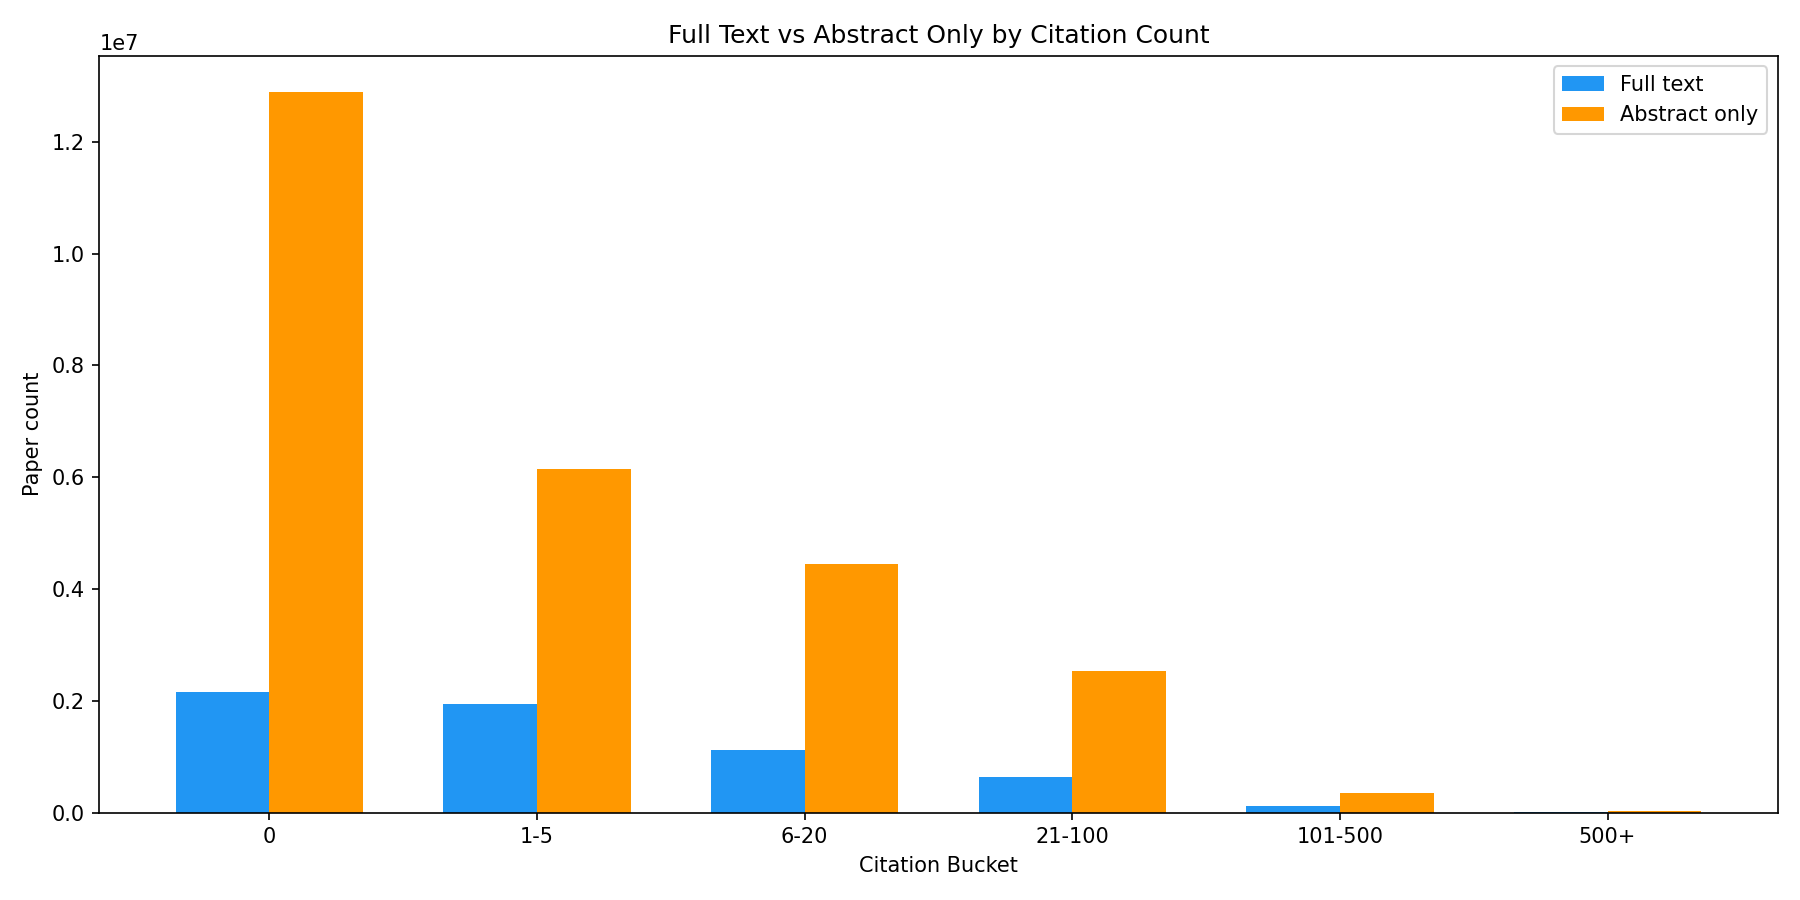
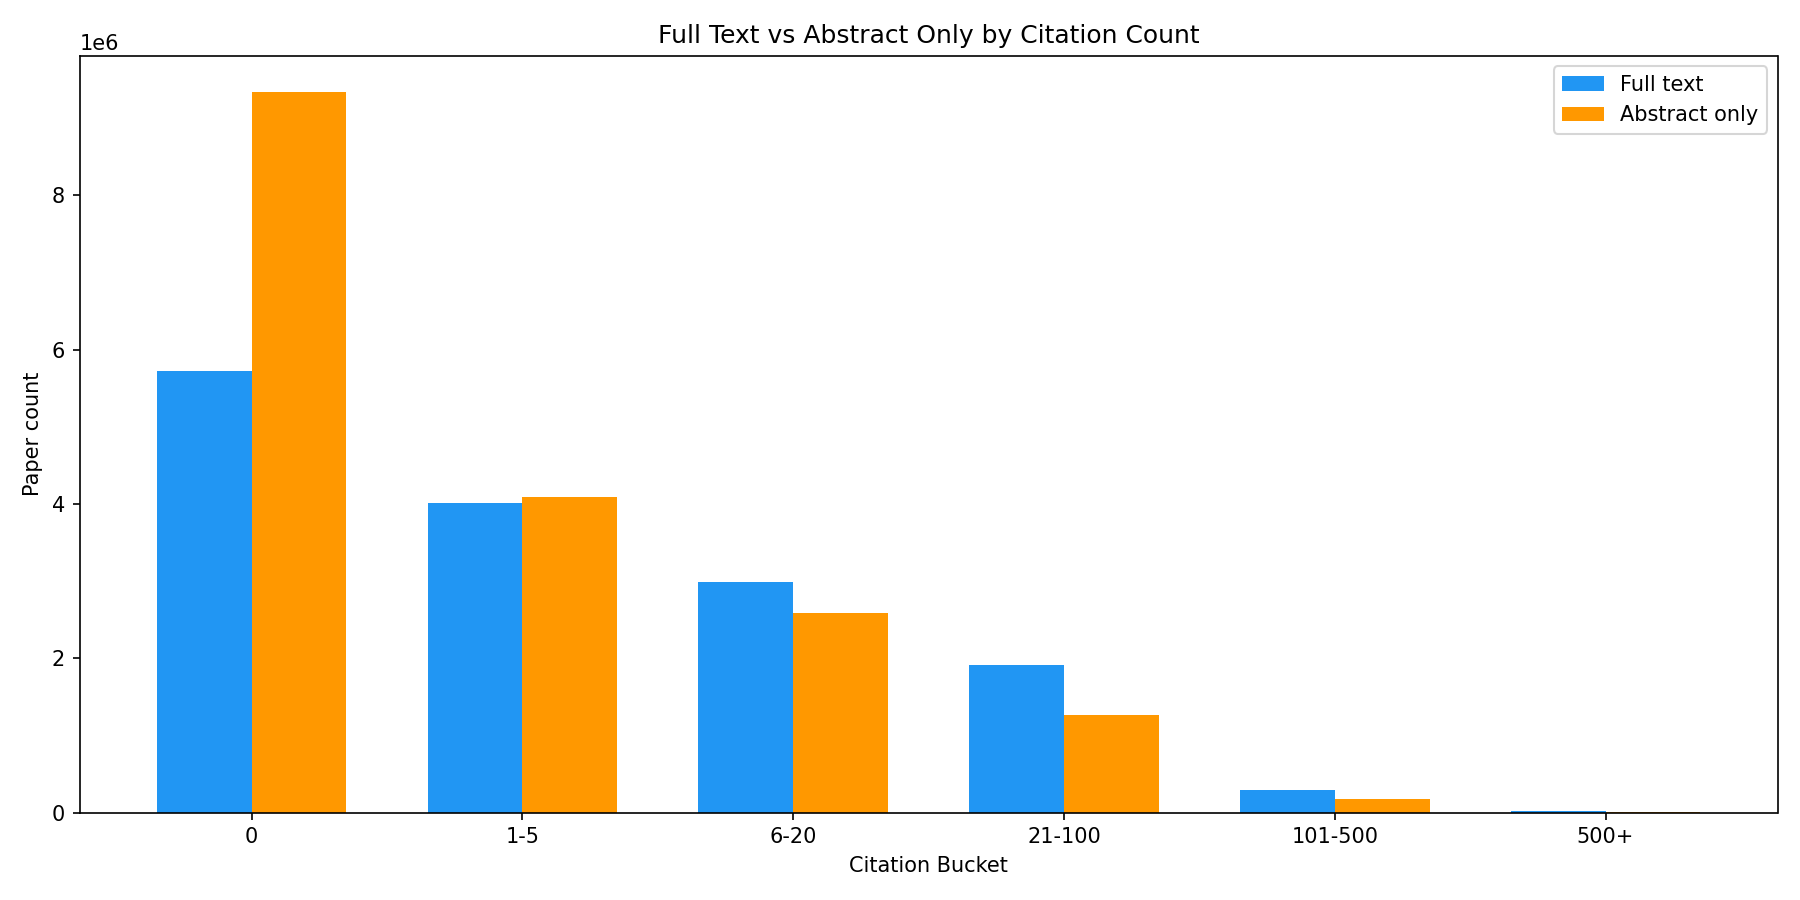
docs: refresh coverage bias analysis + figures against current corpus
32.4M papers (was 32.4M), 14.9M with body (46.1%, was 18.5% in the
2026-04-04 snapshot), 299.3M citation edges, 32.4M embeddings.
Regenerated via scripts/coverage_bias_analysis.py; all 13 figures
updated to match.

diff --git a/docs/full_text_coverage_analysis.md b/docs/full_text_coverage_analysis.md
@@ -1,15 +1,15 @@
 # SciX Corpus Coverage Bias Analysis
 
-> **Snapshot — 2026-04-04.** The per-field distributions, year breakdowns, and bias analysis below reflect the corpus state at the time this report was generated. Body-text ingest has continued since: as of **2026-04-20** the corpus has **32,400,594 total papers** and **14,941,487 with full text (46.1%)**. Re-run `scripts/coverage_bias_analysis.py` to regenerate this report against current data.
+> Generated 2026-04-20 from the live `scix` database. Re-run `scripts/coverage_bias_analysis.py` to refresh after further ingest.
 
 This report analyzes the SciX corpus for coverage biases, data quality issues, and completeness across multiple dimensions. It compares the distribution of papers with full text (body IS NOT NULL) vs abstract-only papers and examines field-level data quality.
 
-## Corpus Summary (2026-04-04 snapshot)
+## Corpus Summary
 
-- **Total papers**: 32,390,237
-- **With full text**: 5,988,936 (18.5%)
-- **Citation edges**: 299,253,213
-- **Embeddings**: 32,373,178
+- **Total papers**: 32,400,594
+- **With full text**: 14,941,487 (46.1%)
+- **Citation edges**: 299,329,159
+- **Embeddings**: 32,423,531
 - **Year range**: 1800 -- 2026
 - **Median citation count**: 1
 - **Median reference count**: 0
@@ -20,29 +20,29 @@ Shows what percentage of papers have non-null (and non-empty for arrays) values 
 
 | Field | Total | Populated | Missing | % Populated |
 |---|---:|---:|---:|---:|
-| title | 32,390,237 | 32,373,178 | 17,059 | 100.0% |
-| abstract | 32,390,237 | 23,281,444 | 9,108,793 | 71.9% |
-| body | 32,390,237 | 5,988,936 | 26,401,301 | 18.5% |
-| year | 32,390,237 | 32,390,237 | 0 | 100.0% |
-| doctype | 32,390,237 | 32,390,237 | 0 | 100.0% |
-| pub | 32,390,237 | 32,390,132 | 105 | 100.0% |
-| first_author | 32,390,237 | 31,203,705 | 1,186,532 | 96.3% |
-| citation_count | 32,390,237 | 32,390,154 | 83 | 100.0% |
-| read_count | 32,390,237 | 32,390,154 | 83 | 100.0% |
-| reference_count | 32,390,237 | 27,391,811 | 4,998,426 | 84.6% |
-| pubdate | 32,390,237 | 32,390,237 | 0 | 100.0% |
-| lang | 32,390,237 | 0 | 32,390,237 | 0.0% |
-| copyright | 32,390,237 | 15,556,018 | 16,834,219 | 48.0% |
-| authors | 32,390,237 | 31,203,705 | 1,186,532 | 96.3% |
-| affiliations | 32,390,237 | 31,221,421 | 1,168,816 | 96.4% |
-| keywords | 32,390,237 | 15,829,538 | 16,560,699 | 48.9% |
-| arxiv_class | 32,390,237 | 2,662,341 | 29,727,896 | 8.2% |
-| database | 32,390,237 | 32,390,237 | 0 | 100.0% |
-| doi | 32,390,237 | 28,235,596 | 4,154,641 | 87.2% |
-| bibstem | 32,390,237 | 32,390,237 | 0 | 100.0% |
-| bibgroup | 32,390,237 | 663,064 | 31,727,173 | 2.0% |
-| orcid_pub | 32,390,237 | 31,174,078 | 1,216,159 | 96.2% |
-| orcid_user | 32,390,237 | 397,774 | 31,992,463 | 1.2% |
+| title | 32,400,594 | 32,383,535 | 17,059 | 100.0% |
+| abstract | 32,400,594 | 23,291,796 | 9,108,798 | 71.9% |
+| body | 32,400,594 | 14,941,487 | 17,459,107 | 46.1% |
+| year | 32,400,594 | 32,400,594 | 0 | 100.0% |
+| doctype | 32,400,594 | 32,400,594 | 0 | 100.0% |
+| pub | 32,400,594 | 32,400,485 | 109 | 100.0% |
+| first_author | 32,400,594 | 31,214,062 | 1,186,532 | 96.3% |
+| citation_count | 32,400,594 | 32,399,050 | 1,544 | 100.0% |
+| read_count | 32,400,594 | 32,399,048 | 1,546 | 100.0% |
+| reference_count | 32,400,594 | 27,400,705 | 4,999,889 | 84.6% |
+| pubdate | 32,400,594 | 32,400,590 | 4 | 100.0% |
+| lang | 32,400,594 | 0 | 32,400,594 | 0.0% |
+| copyright | 32,400,594 | 15,556,018 | 16,844,576 | 48.0% |
+| authors | 32,400,594 | 31,214,062 | 1,186,532 | 96.3% |
+| affiliations | 32,400,594 | 31,231,774 | 1,168,820 | 96.4% |
+| keywords | 32,400,594 | 15,839,773 | 16,560,821 | 48.9% |
+| arxiv_class | 32,400,594 | 2,672,557 | 29,728,037 | 8.2% |
+| database | 32,400,594 | 32,400,590 | 4 | 100.0% |
+| doi | 32,400,594 | 28,241,853 | 4,158,741 | 87.2% |
+| bibstem | 32,400,594 | 32,400,590 | 4 | 100.0% |
+| bibgroup | 32,400,594 | 663,074 | 31,737,520 | 2.0% |
+| orcid_pub | 32,400,594 | 31,184,320 | 1,216,274 | 96.2% |
+| orcid_user | 32,400,594 | 397,815 | 32,002,779 | 1.2% |
 
 ![Field Completeness](figures/field_completeness.png)
 
@@ -50,12 +50,12 @@ Shows what percentage of papers have non-null (and non-empty for arrays) values 
 
 Measures what fraction of cited papers (targets of citation edges) exist in the corpus.
 
-- **Total citation edges**: 299,253,213
-- **Edges with target in corpus**: 297,777,895 (99.5%)
-- **Edges with target missing**: 1,475,318 (0.5%)
-- **Unique cited papers**: 286,505,026
-- **Unique cited in corpus**: 285,041,678 (99.5%)
-- **Unique cited missing**: 1,463,348 (0.5%)
+- **Total citation edges**: 299,329,159
+- **Edges with target in corpus**: 297,946,258 (99.5%)
+- **Edges with target missing**: 1,382,901 (0.5%)
+- **Unique cited papers**: 286,443,039
+- **Unique cited in corpus**: 285,072,111 (99.5%)
+- **Unique cited missing**: 1,370,928 (0.5%)
 
 ## Year Distribution
 
@@ -266,28 +266,28 @@ Measures what fraction of cited papers (targets of citation edges) exist in the 
 | 2002 | 496,501 | 149,312 | 347,189 | 30.1% |
 | 2003 | 536,741 | 169,515 | 367,226 | 31.6% |
 | 2004 | 564,017 | 192,735 | 371,282 | 34.2% |
-| 2005 | 605,808 | 0 | 605,808 | 0.0% |
-| 2006 | 664,516 | 0 | 664,516 | 0.0% |
-| 2007 | 702,395 | 0 | 702,395 | 0.0% |
-| 2008 | 765,483 | 0 | 765,483 | 0.0% |
-| 2009 | 845,013 | 0 | 845,013 | 0.0% |
-| 2010 | 886,430 | 0 | 886,430 | 0.0% |
-| 2011 | 901,863 | 0 | 901,863 | 0.0% |
-| 2012 | 937,657 | 0 | 937,657 | 0.0% |
-| 2013 | 952,280 | 0 | 952,280 | 0.0% |
-| 2014 | 984,111 | 0 | 984,111 | 0.0% |
-| 2015 | 1,032,535 | 0 | 1,032,535 | 0.0% |
-| 2016 | 1,090,059 | 0 | 1,090,059 | 0.0% |
-| 2017 | 1,127,588 | 0 | 1,127,588 | 0.0% |
-| 2018 | 1,199,985 | 0 | 1,199,985 | 0.0% |
-| 2019 | 1,300,139 | 0 | 1,300,139 | 0.0% |
-| 2020 | 1,042,042 | 0 | 1,042,042 | 0.0% |
-| 2021 | 1,106,361 | 706,333 | 400,028 | 63.8% |
-| 2022 | 1,108,998 | 701,014 | 407,984 | 63.2% |
-| 2023 | 1,133,536 | 720,073 | 413,463 | 63.5% |
-| 2024 | 1,219,435 | 817,568 | 401,867 | 67.0% |
-| 2025 | 430,017 | 288,001 | 142,016 | 67.0% |
-| 2026 | 21 | 0 | 21 | 0.0% |
+| 2005 | 605,808 | 315,011 | 290,797 | 52.0% |
+| 2006 | 664,516 | 355,568 | 308,948 | 53.5% |
+| 2007 | 702,395 | 383,639 | 318,756 | 54.6% |
+| 2008 | 765,483 | 417,742 | 347,741 | 54.6% |
+| 2009 | 845,013 | 447,769 | 397,244 | 53.0% |
+| 2010 | 886,430 | 479,009 | 407,421 | 54.0% |
+| 2011 | 901,863 | 494,776 | 407,087 | 54.9% |
+| 2012 | 937,657 | 511,225 | 426,432 | 54.5% |
+| 2013 | 952,280 | 548,265 | 404,015 | 57.6% |
+| 2014 | 984,111 | 577,000 | 407,111 | 58.6% |
+| 2015 | 1,032,535 | 611,581 | 420,954 | 59.2% |
+| 2016 | 1,090,059 | 657,230 | 432,829 | 60.3% |
+| 2017 | 1,127,588 | 682,999 | 444,589 | 60.6% |
+| 2018 | 1,199,985 | 790,214 | 409,771 | 65.8% |
+| 2019 | 1,300,139 | 895,333 | 404,806 | 68.9% |
+| 2020 | 1,042,047 | 730,762 | 311,285 | 70.1% |
+| 2021 | 1,106,362 | 706,335 | 400,027 | 63.8% |
+| 2022 | 1,109,001 | 701,015 | 407,986 | 63.2% |
+| 2023 | 1,133,541 | 720,074 | 413,467 | 63.5% |
+| 2024 | 1,219,453 | 817,568 | 401,885 | 67.0% |
+| 2025 | 430,065 | 332,266 | 97,799 | 77.3% |
+| 2026 | 10,298 | 10,159 | 139 | 98.7% |
 
 ![Year Distribution](figures/year_distribution.png)
 
@@ -297,26 +297,26 @@ Measures what fraction of cited papers (targets of citation edges) exist in the 
 
 | arXiv Class | Total | Full Text | Abstract Only | % Full Text |
 |---|---:|---:|---:|---:|
-| cs.LG | 198,807 | 131,945 | 66,862 | 66.4% |
-| hep-ph | 185,339 | 83,718 | 101,621 | 45.2% |
-| hep-th | 170,765 | 77,166 | 93,599 | 45.2% |
-| quant-ph | 158,101 | 68,694 | 89,407 | 43.5% |
-| cs.CV | 147,407 | 99,725 | 47,682 | 67.7% |
-| cs.AI | 119,998 | 91,757 | 28,241 | 76.5% |
-| gr-qc | 111,910 | 47,196 | 64,714 | 42.2% |
-| astro-ph | 105,263 | 58,683 | 46,580 | 55.8% |
-| cond-mat.mtrl-sci | 97,125 | 38,833 | 58,292 | 40.0% |
-| cond-mat.mes-hall | 93,432 | 32,490 | 60,942 | 34.8% |
-| math-ph | 82,284 | 28,489 | 53,795 | 34.6% |
-| cs.CL | 79,880 | 57,970 | 21,910 | 72.6% |
-| cond-mat.str-el | 76,463 | 29,820 | 46,643 | 39.0% |
-| cond-mat.stat-mech | 75,651 | 31,453 | 44,198 | 41.6% |
-| stat.ML | 72,598 | 28,217 | 44,381 | 38.9% |
-| astro-ph.CO | 70,973 | 18,303 | 52,670 | 25.8% |
-| astro-ph.GA | 69,307 | 26,159 | 43,148 | 37.7% |
-| math.CO | 69,143 | 25,228 | 43,915 | 36.5% |
-| math.AP | 65,085 | 24,458 | 40,627 | 37.6% |
-| astro-ph.SR | 63,654 | 19,297 | 44,357 | 30.3% |
+| cs.LG | 198,807 | 197,077 | 1,730 | 99.1% |
+| hep-ph | 185,595 | 182,713 | 2,882 | 98.5% |
+| hep-th | 171,068 | 168,605 | 2,463 | 98.6% |
+| quant-ph | 158,726 | 156,881 | 1,845 | 98.8% |
+| cs.CV | 148,677 | 147,407 | 1,270 | 99.2% |
+| cs.AI | 121,917 | 120,413 | 1,504 | 98.8% |
+| gr-qc | 112,194 | 110,371 | 1,823 | 98.4% |
+| astro-ph | 105,263 | 104,699 | 564 | 99.5% |
+| cond-mat.mtrl-sci | 97,429 | 96,669 | 760 | 99.2% |
+| cond-mat.mes-hall | 93,632 | 93,022 | 610 | 99.3% |
+| math-ph | 82,447 | 81,696 | 751 | 99.1% |
+| cs.CL | 80,839 | 80,104 | 735 | 99.1% |
+| cond-mat.str-el | 76,626 | 76,132 | 494 | 99.4% |
+| cond-mat.stat-mech | 75,798 | 75,275 | 523 | 99.3% |
+| stat.ML | 74,038 | 73,295 | 743 | 99.0% |
+| astro-ph.CO | 71,112 | 69,476 | 1,636 | 97.7% |
+| astro-ph.GA | 69,527 | 69,127 | 400 | 99.4% |
+| math.CO | 69,333 | 68,677 | 656 | 99.0% |
+| math.AP | 65,331 | 64,683 | 648 | 99.0% |
+| astro-ph.SR | 63,810 | 63,506 | 304 | 99.5% |
 
 ![arXiv Distribution](figures/arxiv_distribution.png)
 
@@ -326,26 +326,26 @@ Measures what fraction of cited papers (targets of citation edges) exist in the 
 
 | Doctype | Total | Full Text | Abstract Only | % Full Text |
 |---|---:|---:|---:|---:|
-| article | 21,943,646 | 4,837,919 | 17,105,727 | 22.1% |
-| inproceedings | 5,602,616 | 254,807 | 5,347,809 | 4.5% |
-| eprint | 1,589,538 | 747,176 | 842,362 | 47.0% |
-| abstract | 1,376,088 | 63,988 | 1,312,100 | 4.7% |
+| article | 21,943,650 | 10,029,447 | 11,914,203 | 45.7% |
+| inproceedings | 5,602,616 | 3,141,694 | 2,460,922 | 56.1% |
+| eprint | 1,599,754 | 1,553,078 | 46,676 | 97.1% |
+| abstract | 1,376,088 | 87,835 | 1,288,253 | 6.4% |
 | proposal | 474,978 | 0 | 474,978 | 0.0% |
-| techreport | 332,016 | 522 | 331,494 | 0.2% |
-| phdthesis | 219,380 | 537 | 218,843 | 0.2% |
-| circular | 166,524 | 2,175 | 164,349 | 1.3% |
-| inbook | 129,975 | 8,873 | 121,102 | 6.8% |
-| bookreview | 110,939 | 31,893 | 79,046 | 28.8% |
-| proceedings | 86,731 | 1,753 | 84,978 | 2.0% |
-| erratum | 71,954 | 18,623 | 53,331 | 25.9% |
-| book | 67,763 | 191 | 67,572 | 0.3% |
-| editorial | 60,889 | 15,364 | 45,525 | 25.2% |
+| techreport | 332,016 | 617 | 331,399 | 0.2% |
+| phdthesis | 219,380 | 1,880 | 217,500 | 0.9% |
+| circular | 166,524 | 2,187 | 164,337 | 1.3% |
+| inbook | 129,975 | 12,276 | 117,699 | 9.4% |
+| bookreview | 110,939 | 36,934 | 74,005 | 33.3% |
+| proceedings | 86,731 | 3,487 | 83,244 | 4.0% |
+| erratum | 71,954 | 36,825 | 35,129 | 51.2% |
+| book | 67,763 | 258 | 67,505 | 0.4% |
+| editorial | 60,889 | 28,675 | 32,214 | 47.1% |
 | dataset | 43,260 | 3 | 43,257 | 0.0% |
-| newsletter | 42,802 | 434 | 42,368 | 1.0% |
-| software | 36,858 | 2 | 36,856 | 0.0% |
-| mastersthesis | 10,595 | 3 | 10,592 | 0.0% |
-| obituary | 10,095 | 3,521 | 6,574 | 34.9% |
-| misc | 8,054 | 1,151 | 6,903 | 14.3% |
+| newsletter | 42,802 | 438 | 42,364 | 1.0% |
+| software | 36,995 | 7 | 36,988 | 0.0% |
+| mastersthesis | 10,595 | 18 | 10,577 | 0.2% |
+| obituary | 10,095 | 4,363 | 5,732 | 43.2% |
+| misc | 8,054 | 1,464 | 6,590 | 18.2% |
 | pressrelease | 2,960 | 0 | 2,960 | 0.0% |
 | catalog | 2,230 | 1 | 2,229 | 0.0% |
 | talk | 339 | 0 | 339 | 0.0% |
@@ -361,10 +361,10 @@ The ADS `database` field indicates which databases index a paper (e.g. astronomy
 
 | Database | Total | Full Text | Abstract Only | % Full Text |
 |---|---:|---:|---:|---:|
-| physics | 17,090,704 | 2,739,161 | 14,351,543 | 16.0% |
-| earth science | 13,118,857 | 2,310,645 | 10,808,212 | 17.6% |
-| general | 5,784,114 | 887,364 | 4,896,750 | 15.3% |
-| astronomy | 3,004,416 | 942,748 | 2,061,668 | 31.4% |
+| physics | 17,093,196 | 7,960,783 | 9,132,413 | 46.6% |
+| earth science | 13,118,876 | 6,475,688 | 6,643,188 | 49.4% |
+| general | 5,791,687 | 2,482,004 | 3,309,683 | 42.9% |
+| astronomy | 3,005,461 | 1,469,879 | 1,535,582 | 48.9% |
 
 ![Database Distribution](figures/database_distribution.png)
 
@@ -374,12 +374,12 @@ The ADS `database` field indicates which databases index a paper (e.g. astronomy
 
 | Citations | Total | Full Text | Abstract Only | % Full Text |
 |---|---:|---:|---:|---:|
-| 0 | 15,050,375 | 2,160,695 | 12,889,680 | 14.4% |
-| 1-5 | 8,097,798 | 1,943,474 | 6,154,324 | 24.0% |
-| 6-20 | 5,574,323 | 1,119,102 | 4,455,221 | 20.1% |
-| 21-100 | 3,171,892 | 638,569 | 2,533,323 | 20.1% |
-| 101-500 | 461,075 | 116,312 | 344,763 | 25.2% |
-| 500+ | 34,691 | 10,783 | 23,908 | 31.1% |
+| 0 | 15,058,538 | 5,722,380 | 9,336,158 | 38.0% |
+| 1-5 | 8,098,510 | 4,004,849 | 4,093,661 | 49.5% |
+| 6-20 | 5,574,339 | 2,991,516 | 2,582,823 | 53.7% |
+| 21-100 | 3,171,895 | 1,908,531 | 1,263,364 | 60.2% |
+| 101-500 | 461,077 | 290,885 | 170,192 | 63.1% |
+| 500+ | 34,691 | 21,879 | 12,812 | 63.1% |
 
 ![Citation Distribution](figures/citation_distribution.png)
 
@@ -389,26 +389,26 @@ The ADS `database` field indicates which databases index a paper (e.g. astronomy
 
 | Journal | Total | Full Text | Abstract Only | % Full Text |
 |---|---:|---:|---:|---:|
-| arXiv e-prints | 1,516,671 | 719,312 | 797,359 | 47.4% |
+| arXiv e-prints | 1,526,887 | 1,506,534 | 20,353 | 98.7% |
 | NSF Award | 419,382 | 0 | 419,382 | 0.0% |
-| Nature | 410,979 | 32,899 | 378,080 | 8.0% |
-| AGU Fall Meeting Abstracts | 409,959 | 29 | 409,930 | 0.0% |
-| PLoS ONE | 306,926 | 619 | 306,307 | 0.2% |
-| Scientific Reports | 230,156 | 107,869 | 122,287 | 46.9% |
-| Ph.D. Thesis | 219,343 | 540 | 218,803 | 0.2% |
-| EGU General Assembly Conference Abstracts | 219,147 | 0 | 219,147 | 0.0% |
-| Science | 218,460 | 497 | 217,963 | 0.2% |
-| Physical Review B | 218,152 | 129,690 | 88,462 | 59.5% |
+| Nature | 410,979 | 77,029 | 333,950 | 18.7% |
+| AGU Fall Meeting Abstracts | 409,959 | 31 | 409,928 | 0.0% |
+| PLoS ONE | 306,926 | 2,251 | 304,675 | 0.7% |
+| Scientific Reports | 230,156 | 228,709 | 1,447 | 99.4% |
+| Ph.D. Thesis | 219,343 | 1,883 | 217,460 | 0.9% |
+| EGU General Assembly Conference Abstracts | 219,147 | 69 | 219,078 | 0.0% |
+| Science | 218,460 | 1,564 | 216,896 | 0.7% |
+| Physical Review B | 218,152 | 218,004 | 148 | 99.9% |
 | APS March Meeting Abstracts | 210,083 | 0 | 210,083 | 0.0% |
-| Journal of the American Chemical Society | 209,655 | 188 | 209,467 | 0.1% |
-| Journal of Physics Conference Series | 190,833 | 21,553 | 169,280 | 11.3% |
-| Acoustical Society of America Journal | 169,728 | 151 | 169,577 | 0.1% |
-| Proceedings of the National Academy of Science | 163,776 | 928 | 162,848 | 0.6% |
-| Journal of Applied Physics | 149,398 | 8,449 | 140,949 | 5.7% |
-| Journal of Chemical Physics | 146,719 | 8,889 | 137,830 | 6.1% |
-| Physical Review Letters | 138,842 | 85,856 | 52,986 | 61.8% |
-| The Astrophysical Journal | 137,613 | 83,278 | 54,335 | 60.5% |
-| Applied Physics Letters | 135,563 | 12,411 | 123,152 | 9.2% |
+| Journal of the American Chemical Society | 209,655 | 407 | 209,248 | 0.2% |
+| Journal of Physics Conference Series | 190,833 | 135,367 | 55,466 | 70.9% |
+| Acoustical Society of America Journal | 169,728 | 355 | 169,373 | 0.2% |
+| Proceedings of the National Academy of Science | 163,776 | 2,654 | 161,122 | 1.6% |
+| Journal of Applied Physics | 149,398 | 63,075 | 86,323 | 42.2% |
+| Journal of Chemical Physics | 146,719 | 47,507 | 99,212 | 32.4% |
+| Physical Review Letters | 138,842 | 138,710 | 132 | 99.9% |
+| The Astrophysical Journal | 137,613 | 137,515 | 98 | 99.9% |
+| Applied Physics Letters | 135,563 | 79,337 | 56,226 | 58.5% |
 
 ![Journal Distribution](figures/journal_distribution.png)
 
